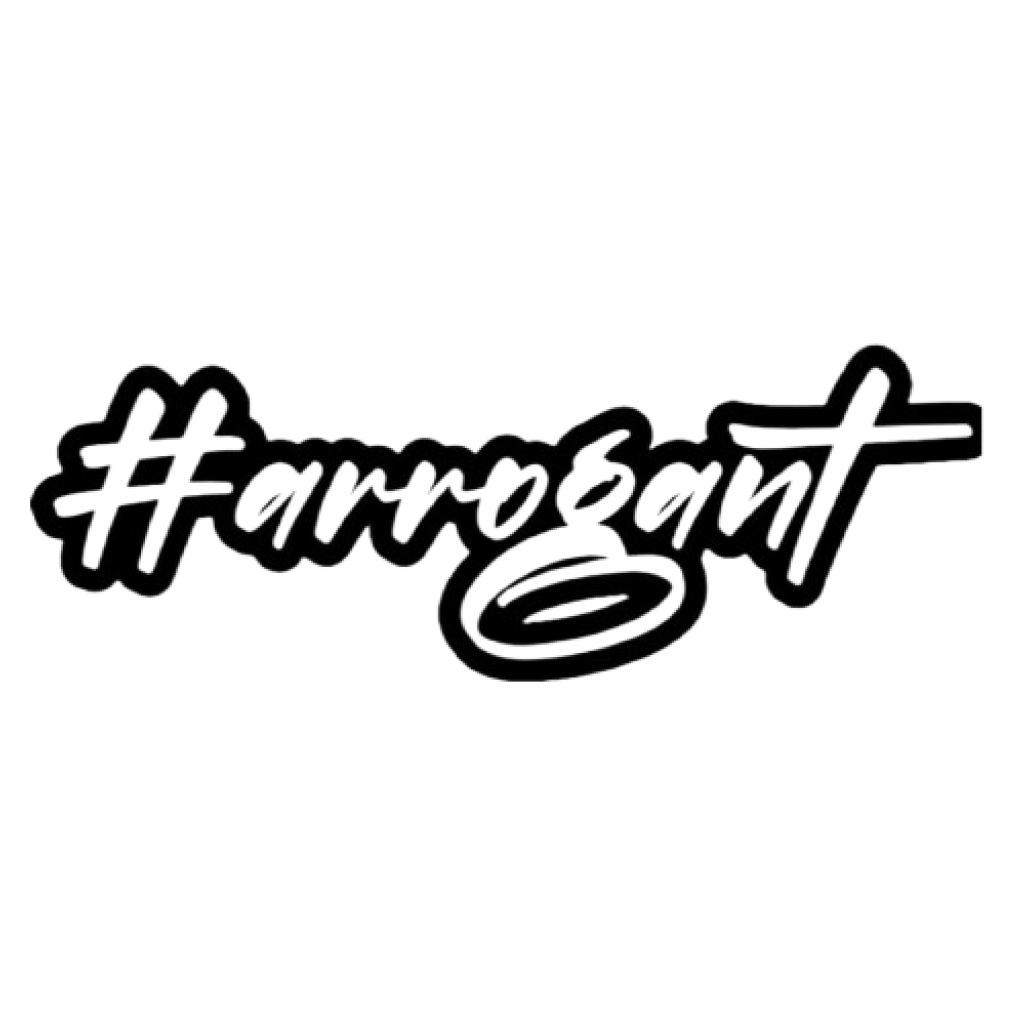
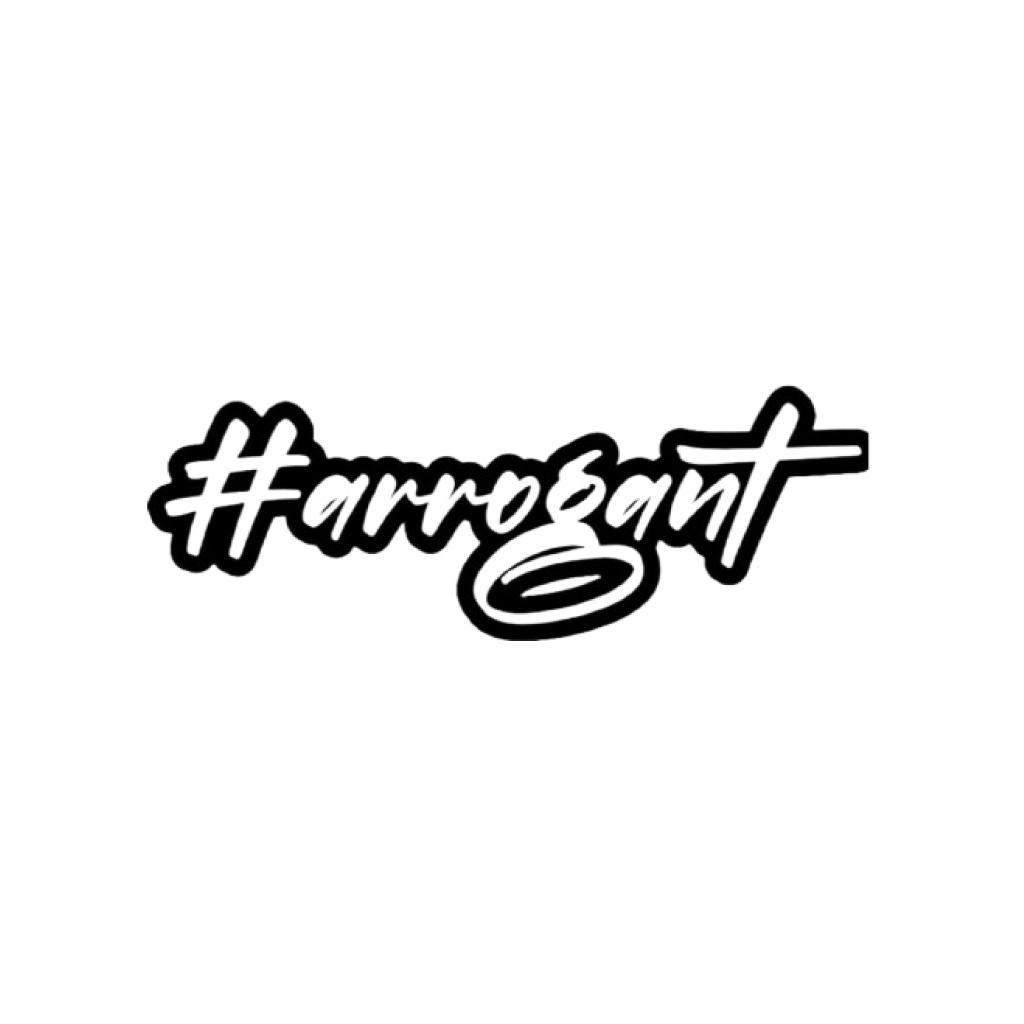
aaa

Changed region(s): [[0.0312, 0.3125, 0.9688, 0.6875]]

diff --git a/app/(app)/(tabs)/settings.tsx b/app/(app)/(tabs)/settings.tsx
@@ -1,5 +1,13 @@
 import React, { useEffect, useState } from "react";
-import { ScrollView, Text, Pressable, StyleSheet, View } from "react-native";
+import {
+  ScrollView,
+  Text,
+  Pressable,
+  StyleSheet,
+  View,
+  Dimensions,
+  Image,
+} from "react-native";
 import { SafeAreaView } from "react-native-safe-area-context";
 import { FIREBASE_AUTH } from "@/constants/firebaseConfig";
 
@@ -7,7 +15,7 @@ import Colors from "@/constants/Colors";
 import BottomModal, { ModalType } from "@/assets/SettingsWidgets/bottommodal";
 import { useAuth } from "@/context/auth";
 import { User } from "@/Models/userModel";
-
+const { width, height } = Dimensions.get("window");
 export default function Settings() {
   const [modalVisible, setModalVisible] = useState(ModalType.None); // State to manage modal visibility
   const { userData } = useAuth();
@@ -24,56 +32,74 @@ export default function Settings() {
 
   return (
     userData !== undefined && (
-      <ScrollView style={styles.container}>
-        <Text style={styles.titleText}>Arogant Studio</Text>
-        <Pressable onPress={() => showModal(ModalType.ChangePassword)}>
-          <Text style={styles.text}>Change password</Text>
-        </Pressable>
-        <Pressable onPress={() => showModal(ModalType.ChangeEmail)}>
-          <Text style={styles.text}>Change email</Text>
-        </Pressable>
-        {(userData as User).isAdmin && (
-          <>
-            <Pressable onPress={() => showModal(ModalType.VerifyUser)}>
-              <Text style={styles.text}>Verify User</Text>
-            </Pressable>
-            <Pressable onPress={() => showModal(ModalType.DeleteUser)}>
-              <Text style={styles.text}>Delete User</Text>
-            </Pressable>
-            <Pressable onPress={() => showModal(ModalType.AddBarber)}>
-              <Text style={styles.text}>Add barber</Text>
-            </Pressable>
-            <Pressable onPress={() => showModal(ModalType.RemoveBarber)}>
-              <Text style={styles.text}>Remove barber</Text>
-            </Pressable>
-            <Pressable onPress={() => showModal(ModalType.ChangePhotos)}>
-              <Text style={styles.text}>Salon setings</Text>
-            </Pressable>
-          </>
-        )}
-        {(userData as User).isBarber && (
-          <>
-            <Pressable onPress={() => showModal(ModalType.ModifyProfile)}>
-              <Text style={styles.text}>Modify profile</Text>
-            </Pressable>
-            <Pressable onPress={() => showModal(ModalType.ModifyServices)}>
-              <Text style={styles.text}>Modify services</Text>
-            </Pressable>
-            <Pressable onPress={() => showModal(ModalType.TimeBlock)}>
-              <Text style={styles.text}>Block Times</Text>
-            </Pressable>
-          </>
-        )}
-        <Pressable onPress={() => FIREBASE_AUTH.signOut()}>
-          <Text style={styles.textred}>Sign out</Text>
-        </Pressable>
-        <BottomModal visible={modalVisible} onClose={hideModal} />
-      </ScrollView>
+      <View>
+        <ScrollView style={styles.container}>
+          <View style={{ height: 50 }} />
+          <Pressable onPress={() => showModal(ModalType.ChangePassword)}>
+            <Text style={styles.text}>Change password</Text>
+          </Pressable>
+          <Pressable onPress={() => showModal(ModalType.ChangeEmail)}>
+            <Text style={styles.text}>Change email</Text>
+          </Pressable>
+          {(userData as User).isAdmin && (
+            <>
+              <Pressable onPress={() => showModal(ModalType.VerifyUser)}>
+                <Text style={styles.text}>Verify User</Text>
+              </Pressable>
+              <Pressable onPress={() => showModal(ModalType.DeleteUser)}>
+                <Text style={styles.text}>Delete User</Text>
+              </Pressable>
+              <Pressable onPress={() => showModal(ModalType.AddBarber)}>
+                <Text style={styles.text}>Add barber</Text>
+              </Pressable>
+              <Pressable onPress={() => showModal(ModalType.RemoveBarber)}>
+                <Text style={styles.text}>Remove barber</Text>
+              </Pressable>
+              <Pressable onPress={() => showModal(ModalType.ChangePhotos)}>
+                <Text style={styles.text}>Salon settings</Text>
+              </Pressable>
+            </>
+          )}
+          {(userData as User).isBarber && (
+            <>
+              <Pressable onPress={() => showModal(ModalType.ModifyProfile)}>
+                <Text style={styles.text}>Modify profile</Text>
+              </Pressable>
+              <Pressable onPress={() => showModal(ModalType.ModifyServices)}>
+                <Text style={styles.text}>Modify services</Text>
+              </Pressable>
+              <Pressable onPress={() => showModal(ModalType.TimeBlock)}>
+                <Text style={styles.text}>Block Times</Text>
+              </Pressable>
+            </>
+          )}
+          <Pressable onPress={() => FIREBASE_AUTH.signOut()}>
+            <Text style={styles.textred}>Sign out</Text>
+          </Pressable>
+
+          <View style={{ height: 50 }} />
+          <BottomModal visible={modalVisible} onClose={hideModal} />
+        </ScrollView>
+        <Image
+          style={styles.imageStyle}
+          source={require("../../../assets/images/logo.png")}
+          resizeMethod="scale"
+          resizeMode="contain"
+        />
+      </View>
     )
   );
 }
 
 const styles = StyleSheet.create({
+  imageStyle: {
+    width: width * 0.9,
+    height: height * 0.08,
+    alignSelf: "center",
+    marginBottom: 10,
+    marginTop: 20,
+    position: "absolute",
+  },
   container: {
     padding: 20,
     backgroundColor: Colors.backgroundColor,

diff --git a/app/(app)/index.tsx b/app/(app)/index.tsx
@@ -4,7 +4,7 @@ import Colors from "@/constants/Colors";
 import { router } from "expo-router";
 
 import React from "react";
-import { View, Text, StyleSheet, Pressable, Dimensions } from "react-native";
+import { View, Text, StyleSheet, Pressable, Dimensions,Image } from "react-native";
 import { SafeAreaView } from "react-native-safe-area-context";
 import Toast from "react-native-toast-message";
 import { Header } from "react-native/Libraries/NewAppScreen";
@@ -12,14 +12,23 @@ const { width, height } = Dimensions.get("window");
 export default function Home() {
   return (
     <SafeAreaView style={style.container}>
-      
-      <Text style={style.titleText}>Arogant Studio</Text>
+      <Image
+        style={style.imageStyle}
+        source={require("../../assets/images/logo.png")}
+        resizeMethod="scale"
+        resizeMode="contain"
+      />
       <CarouselWidget />
       <BarbersView />
-      <Pressable style={style.button} onPress={()=>{router.push("/(booking)/")}}>
+      <Pressable
+        style={style.button}
+        onPress={() => {
+          router.push("/(booking)/");
+        }}
+      >
         <Text style={style.text}>Book Now</Text>
       </Pressable>
-      <Toast />                                                  
+      <Toast />
     </SafeAreaView>
   );
 }
@@ -27,6 +36,13 @@ const style = StyleSheet.create({
   container: {
     height: "100%",
     backgroundColor: Colors.backgroundColor,
+  },
+  imageStyle: {
+    width: width * 0.9,
+    height: height * 0.08,
+    alignSelf: "center",
+    marginBottom: 10,
+    padding: 0
   },
   titleText: {
     color: Colors.textColor,

diff --git a/app/(booking)/(tabs)/timeselect/[data].tsx b/app/(booking)/(tabs)/timeselect/[data].tsx
@@ -152,7 +152,7 @@ export default function TimeSelect() {
         data={dates}
         renderItem={({ item, index }) => (
           <Pressable
-            style={{height: "100%"}}
+            style={{ height: "100%" }}
             onPress={() => {
               setSelectedDate(item);
             }}
@@ -172,23 +172,25 @@ export default function TimeSelect() {
       {gapsAvailable.length != 0 ? null : (
         <Text style={styles.text}>No available times</Text>
       )}
-        <FlatList
-          data={gapsAvailable}
-          renderItem={({ item }) => (
-            <Pressable
-              onPress={() => {
-                setSelectedTime(item.startDate);
-                setSelectedEndTime(item.endDate);
-              }}
-            >
-              <TimeDisplay
-                start={item.startDate}
-                end={item.endDate}
-                isSelected={item.startDate === selectedTime}
-              />
-            </Pressable>
-          )}
-        />
+      <FlatList
+        data={gapsAvailable}
+        renderItem={({ item }) => (
+          <Pressable
+            onPress={() => {
+              setSelectedTime(item.startDate);
+              setSelectedEndTime(item.endDate);
+            }}
+          >
+            <TimeDisplay
+              start={item.startDate}
+              end={item.endDate}
+              isSelected={item.startDate === selectedTime}
+            />
+          </Pressable>
+        )}
+      />
+
+      <View style={{ height: 50 }} />
 
       <Pressable
         style={styles.button}

diff --git a/assets/HomeWidgets/photoView.tsx b/assets/HomeWidgets/photoView.tsx
@@ -42,7 +42,7 @@ export const CarouselWidget = () => {
     // <Image onError={(w) => console.log(w)} source={{ uri: baseURL + "/images/Salon/" + item }} style={styles.image} />
     return (
       <View>
-        <Image style={styles.image} source={{ uri: baseURL + "/images/Salon/" + item }} />
+        <Image style={styles.image} source={{ uri: baseURL + "/images/Salon/" + item } }/>
       </View>
     );
   };

diff --git a/services/userApiService.ts b/services/userApiService.ts
@@ -4,7 +4,7 @@ import { User } from '@/Models/userModel';
 import { Barber ,Service} from '@/Models/barberModel';
 
 // Define the base URL
-export const baseURL = "https://backend-kygg.onrender.com";
+export const baseURL = "http://192.168.100.16:3000";
 
 // Create an Axios instance with the base URL
 const axiosInstance: AxiosInstance = axios.create({
